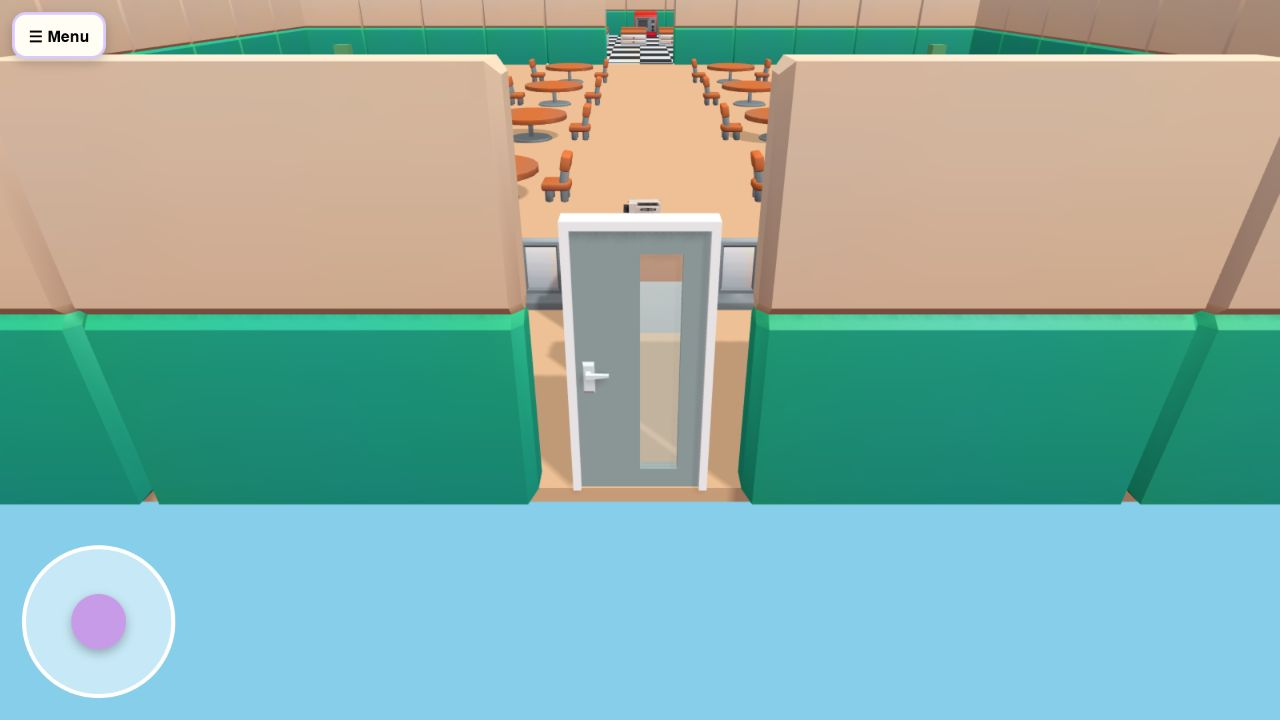
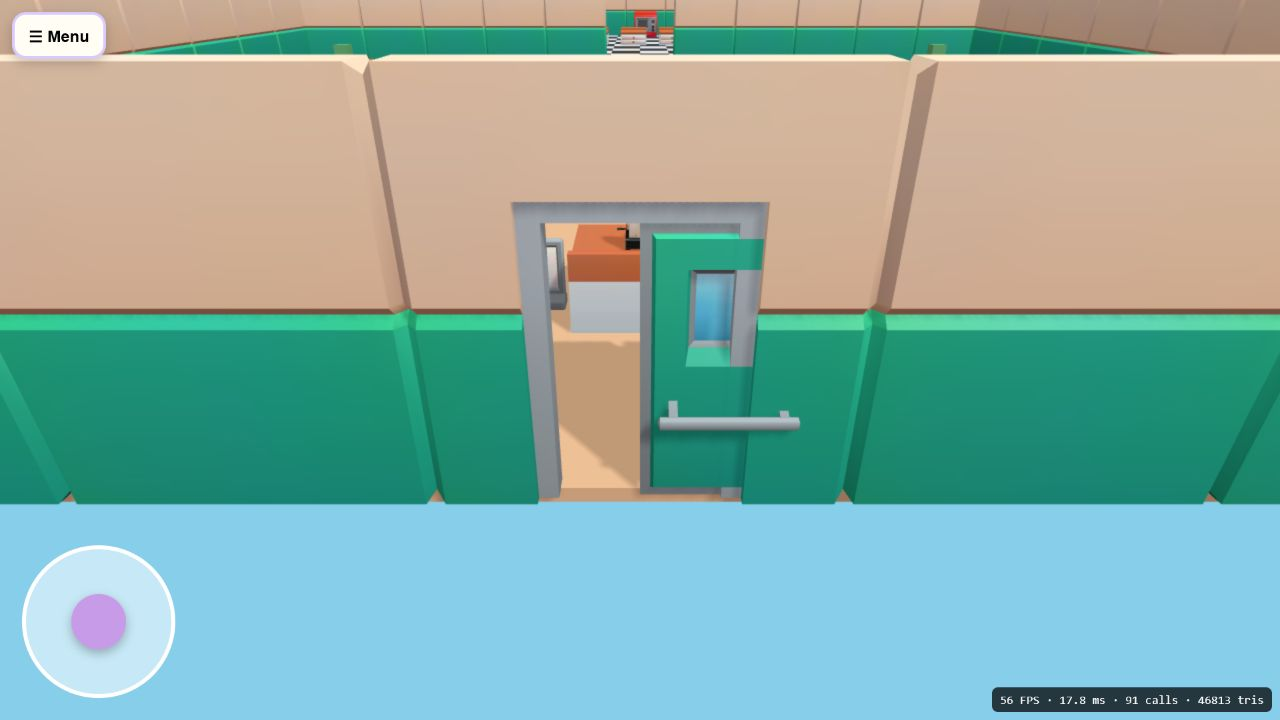
Match restaurant entrance to authored wall kit

diff --git a/restaurant-world.js b/restaurant-world.js
@@ -9,10 +9,10 @@
  const KIT_URL=`assets/models/restaurant/kaykit-restaurant-kit.glb?v=${BUILD_VERSION}`;
  const BACKGROUND_COLOR=0x87ceeb;
  const EXTRA_ASSETS=Object.freeze({
-  cashRegister:Object.freeze({assetId:"restaurant.front.cash-register",url:`assets/models/restaurant-extras/cash-register.glb?v=${BUILD_VERSION}`,position:Object.freeze({x:0,y:1.03,z:15.5}),scale:1.15,yaw:Math.PI}),
-  frontDoor:Object.freeze({assetId:"restaurant.front.door",url:`assets/models/restaurant-extras/front-door.glb?v=${BUILD_VERSION}`,position:Object.freeze({x:0,y:0,z:19.92}),scale:2.75,yaw:Math.PI})
+  cashRegister:Object.freeze({assetId:"restaurant.front.cash-register",url:`assets/models/restaurant-extras/cash-register.glb?v=${BUILD_VERSION}`,position:Object.freeze({x:0,y:1.03,z:15.5}),scale:1.15,yaw:Math.PI})
  });
  const CASH_DESK=Object.freeze({assetId:"restaurant.front.cash-desk",sourceScene:"kitchencounter_straight_A_backsplash",position:Object.freeze({x:0,y:0,z:15.5}),scale:1,yaw:Math.PI,collision:Object.freeze([1,1.03])});
+ const FRONT_ENTRANCE=Object.freeze({assetId:"restaurant.front.entrance",frameAssetId:"restaurant.front.entrance-frame",frameScene:"wall_doorway",doorAssetId:"restaurant.front.door",doorScene:"door_A",position:Object.freeze({x:0,y:0,z:20}),yaw:0,collision:Object.freeze([2,.25])});
  const ROOM_FILES={dining:"restaurant-main-level.txt",kitchen:"restaurant-kitchen-level.txt"};
  const WALKABLE=new Set([".","D","E"]);
  const PLAYER_RADIUS=.28;
@@ -87,6 +87,7 @@
    if(Math.abs(x-transform.x)<half[0]+PLAYER_RADIUS&&Math.abs(z-transform.z)<half[1]+PLAYER_RADIUS)return false;
   }
   if(room.room==="dining"&&Math.abs(x-CASH_DESK.position.x)<CASH_DESK.collision[0]+PLAYER_RADIUS&&Math.abs(z-CASH_DESK.position.z)<CASH_DESK.collision[1]+PLAYER_RADIUS)return false;
+  if(room.room==="dining"&&Math.abs(x-FRONT_ENTRANCE.position.x)<FRONT_ENTRANCE.collision[0]+PLAYER_RADIUS&&Math.abs(z-FRONT_ENTRANCE.position.z)<FRONT_ENTRANCE.collision[1]+PLAYER_RADIUS)return false;
   return true;
  }
  function wallCellCollision(room,col,row,center){
@@ -215,13 +216,23 @@
    const prototype=extras[key]?.scene;
    if(prototype){
     const art=prototype.clone(true);art.name=spec.assetId;art.position.set(spec.position.x,spec.position.y,spec.position.z);art.rotation.y=spec.yaw;art.scale.setScalar(spec.scale);art.userData={assetId:spec.assetId,url:spec.url,placeholder:false};art.traverse(object=>{if(object.isMesh){object.castShadow=object.receiveShadow=true}});front.add(art);loadedAssetIds.push(spec.assetId);
-   }else if(key==="cashRegister"){
-    const register=new THREE.Mesh(new THREE.BoxGeometry(.7,.5,.55),new THREE.MeshStandardMaterial({color:0x303840,roughness:.6}));register.position.set(spec.position.x,spec.position.y+.25,spec.position.z);register.userData={assetId:spec.assetId,placeholder:true};front.add(register);
    }else{
-    const door=new THREE.Mesh(new THREE.BoxGeometry(1.35,2.78,.18),new THREE.MeshStandardMaterial({color:0xdce8ed,roughness:.55}));door.position.set(spec.position.x,1.39,spec.position.z);door.userData={assetId:spec.assetId,placeholder:true};front.add(door);
+    const register=new THREE.Mesh(new THREE.BoxGeometry(.7,.5,.55),new THREE.MeshStandardMaterial({color:0x303840,roughness:.6}));register.position.set(spec.position.x,spec.position.y+.25,spec.position.z);register.userData={assetId:spec.assetId,placeholder:true};front.add(register);
    }
   }
-  front.userData={assetId:"restaurant.front-area",cashDesk:CASH_DESK,props:EXTRA_ASSETS};group.add(front);return front;
+  const entrance=new THREE.Group();entrance.name=FRONT_ENTRANCE.assetId;
+  const framePrototype=sourceScene(kit,FRONT_ENTRANCE.frameScene),doorPrototype=sourceScene(kit,FRONT_ENTRANCE.doorScene);
+  if(framePrototype&&doorPrototype){
+   [[framePrototype,FRONT_ENTRANCE.frameAssetId,FRONT_ENTRANCE.frameScene],[doorPrototype,FRONT_ENTRANCE.doorAssetId,FRONT_ENTRANCE.doorScene]].forEach(([prototype,assetId,source])=>{
+    const art=prototype.clone(true);art.position.set(FRONT_ENTRANCE.position.x,FRONT_ENTRANCE.position.y,FRONT_ENTRANCE.position.z);art.rotation.y=FRONT_ENTRANCE.yaw;art.userData={assetId,sourceScene:source,placeholder:false};art.traverse(object=>{if(object.isMesh){object.castShadow=object.receiveShadow=true}});entrance.add(art);loadedAssetIds.push(assetId);
+   });
+  }else{
+   const frameMaterial=new THREE.MeshStandardMaterial({color:0xf4d6cc,roughness:.9}),doorMaterial=new THREE.MeshStandardMaterial({color:0x35a684,roughness:.75});
+   [[.45,4,.5,-1.78,2],[.45,4,.5,1.78,2],[3.1,.45,.5,0,3.78]].forEach(([w,h,d,x,y])=>{const part=new THREE.Mesh(new THREE.BoxGeometry(w,h,d),frameMaterial);part.position.set(x,y,FRONT_ENTRANCE.position.z);entrance.add(part)});
+   const door=new THREE.Mesh(new THREE.BoxGeometry(1.65,2.8,.22),doorMaterial);door.position.set(.8,1.4,FRONT_ENTRANCE.position.z);door.userData={assetId:FRONT_ENTRANCE.doorAssetId,placeholder:true};entrance.add(door);
+  }
+  entrance.userData={assetId:FRONT_ENTRANCE.assetId,frameScene:FRONT_ENTRANCE.frameScene,doorScene:FRONT_ENTRANCE.doorScene,placeholder:!(framePrototype&&doorPrototype)};front.add(entrance);
+  front.userData={assetId:"restaurant.front-area",cashDesk:CASH_DESK,entrance:FRONT_ENTRANCE,props:EXTRA_ASSETS};group.add(front);return front;
  }
  function buildRuntime(THREE,scene,rooms,kit=null,assetError="",extras={}){
   validateConnection(rooms[0],rooms[1]);
@@ -252,8 +263,8 @@
    batch.userData={assetId:spec.assetId,symbol,placeholder:true,instanceCount:placements.length};group.add(batch);
   }
   addFrontArea(THREE,group,kit,extras,loadedAssetIds);
-  const urls=[KIT_URL,...Object.values(EXTRA_ASSETS).map(spec=>spec.url)],externalReady=Object.keys(EXTRA_ASSETS).every(key=>extras[key]?.scene);
-  group.userData={destination:"restaurant",rooms:rooms.map(room=>({id:room.room,width:room.width,depth:room.depth,layoutFile:ROOM_FILES[room.room]})),assetRegistry:ASSET_REGISTRY,assets:{url:KIT_URL,urls,status:kit&&externalReady?"ready":"fallback",loadedAssetIds,error:assetError},floor:{kitchen:KITCHEN_FLOOR},npcs:0,orders:false,hud:false};
+  const urls=[KIT_URL,...Object.values(EXTRA_ASSETS).map(spec=>spec.url)],externalReady=Object.keys(EXTRA_ASSETS).every(key=>extras[key]?.scene),entranceReady=sourceScene(kit,FRONT_ENTRANCE.frameScene)&&sourceScene(kit,FRONT_ENTRANCE.doorScene);
+  group.userData={destination:"restaurant",rooms:rooms.map(room=>({id:room.room,width:room.width,depth:room.depth,layoutFile:ROOM_FILES[room.room]})),assetRegistry:ASSET_REGISTRY,assets:{url:KIT_URL,urls,status:kit&&externalReady&&entranceReady?"ready":"fallback",loadedAssetIds,error:assetError},floor:{kitchen:KITCHEN_FLOOR},npcs:0,orders:false,hud:false};
   scene.add(group);
   const spawns=Object.fromEntries(rooms.map(room=>[room.room,cellCenter(room,room.spawnCol,room.spawnRow)]));
   const cameraPoses={
@@ -295,5 +306,5 @@
   return {geometries:geometries.size,materials:materials.size,textures:textures.size};
  }
  function destroy(){if(!runtime)return;const root=runtime.group;disposeRuntimeResources(root);root.parent?.remove(root);runtime=null}
- return {KIT_URL,BACKGROUND_COLOR,EXTRA_ASSETS,CASH_DESK,ROOM_FILES,ASSET_REGISTRY,WALKABLE,PLAYER_RADIUS,WALL,KITCHEN_FLOOR,DEBUG_VIEWS,parseLevel,cellCenter,roomAt,symbolAtWorld,canWalk,wallCellCollision,doorwayCells,validateConnection,sourceScene,firstMesh,buildKitchenFloor,wallBoundaryLines,wallSegments,buildWalls,assetTransform,addFrontArea,buildRuntime,loadRooms,loadKit,loadExtraAssets,disposeRuntimeResources,ensure,destroy,get current(){return runtime}};
+ return {KIT_URL,BACKGROUND_COLOR,EXTRA_ASSETS,CASH_DESK,FRONT_ENTRANCE,ROOM_FILES,ASSET_REGISTRY,WALKABLE,PLAYER_RADIUS,WALL,KITCHEN_FLOOR,DEBUG_VIEWS,parseLevel,cellCenter,roomAt,symbolAtWorld,canWalk,wallCellCollision,doorwayCells,validateConnection,sourceScene,firstMesh,buildKitchenFloor,wallBoundaryLines,wallSegments,buildWalls,assetTransform,addFrontArea,buildRuntime,loadRooms,loadKit,loadExtraAssets,disposeRuntimeResources,ensure,destroy,get current(){return runtime}};
 });

diff --git a/tests/restaurant-world.test.js b/tests/restaurant-world.test.js
@@ -23,6 +23,7 @@ const jsonLength=kitBuffer.readUInt32LE(12),gltf=JSON.parse(kitBuffer.subarray(2
 const kitScenes=new Set(gltf.scenes.flatMap(scene=>scene.nodes.map(node=>gltf.nodes[node]?.name)));
 assert(kitScenes.has(Restaurant.WALL.sourceScene),"KayKit derivative must include the authored restaurant wall scene");
 assert(kitScenes.has(Restaurant.KITCHEN_FLOOR.sourceScene),"curated Restaurant Bits GLB must include the authored kitchen floor");
+assert(kitScenes.has(Restaurant.FRONT_ENTRANCE.frameScene)&&kitScenes.has(Restaurant.FRONT_ENTRANCE.doorScene),"front entrance must reuse the matching Restaurant Bits doorway and door scenes");
 const html=read("index.html"),houseSystem=read("house-system.js"),styles=read("styles.css");
 assert(/id="goBakery"[^>]*>[^<]*<span>Restaurant<\/span>/.test(html),"Realm destination must display Restaurant");
 assert(!/id="goBakery">[^<]*<span>Bakery<\/span>/.test(html),"Bakery must not remain a visible Realm destination");
@@ -38,8 +39,9 @@ assert.strictEqual(dining.cell,1);assert.strictEqual(kitchen.cell,1);
 assert(Restaurant.validateConnection(dining,kitchen),"connected doorway must align");
 assert.strictEqual(Restaurant.doorwayCells(dining).length,4);
 assert.strictEqual(Restaurant.doorwayCells(kitchen).length,4);
-assert.strictEqual(dining.map[dining.map.length-1].split("E").length-1,2,"front entrance must reserve a two-unit opening in the south wall");
-assert(Restaurant.canWalk(rooms,0,19.7),"front entrance opening must be walkable from the dining side");
+assert.strictEqual(dining.map[dining.map.length-1].split("E").length-1,4,"front entrance must reserve the full four-unit authored doorway module");
+assert(Restaurant.canWalk(rooms,0,19),"player must be able to approach the front entrance from the dining side");
+assert.strictEqual(Restaurant.canWalk(rooms,0,19.7),false,"closed front entrance must stop the player before the visible door");
 
 const diningSpawn=Restaurant.cellCenter(dining,dining.spawnCol,dining.spawnRow);
 assert(Restaurant.canWalk(rooms,diningSpawn.x,diningSpawn.z),"dining spawn must be walkable");
@@ -135,7 +137,7 @@ assert.strictEqual(kitchenFloor.children.reduce((sum,batch)=>sum+batch.count,0),
 for(const name of ["kitchen-overview","kitchen-fixtures","kitchen-doorway","kitchen-north-wall","kitchen-west-wall","kitchen-east-wall","restaurant-chair-table","restaurant-cash-register","restaurant-front-door","restaurant-sky-overview"]){
  assert(Restaurant.DEBUG_VIEWS[name],`screenshot QA needs stable ${name} view`);
 }
-for(const view of Object.values(Restaurant.DEBUG_VIEWS))assert(Restaurant.canWalk(rooms,view.position.x,view.position.z),"kitchen screenshot pose must remain walkable");
+for(const view of Object.values(Restaurant.DEBUG_VIEWS).filter(view=>!view.hidePlayer))assert(Restaurant.canWalk(rooms,view.position.x,view.position.z),"player-visible restaurant screenshot poses must remain walkable");
 const floorRoot=Object.assign(new Node3D(),{name:Restaurant.KITCHEN_FLOOR.sourceScene,isMesh:true,geometry:{},material:{}}),floorScene=new Group();floorScene.add(floorRoot);
 const authoredFloor=Restaurant.buildKitchenFloor({Group,BoxGeometry,MeshStandardMaterial,InstancedMesh},kitchen,{scenes:[floorScene]},new Matrix4());
 assert.strictEqual(authoredFloor.userData.sourceReady,true,"available Restaurant Bits floor must replace the procedural fallback");

diff --git a/assets/models/restaurant-extras/SOURCE.md b/assets/models/restaurant-extras/SOURCE.md
@@ -1,6 +1,6 @@
 # Restaurant extra asset provenance
 
-Both source assets are released under CC0. No source-site imagery, logos, or promotional material is included here.
+The source asset is released under CC0. No source-site imagery, logos, or promotional material is included here.
 
 ## Cash register
 
@@ -11,14 +11,3 @@ Both source assets are released under CC0. No source-site imagery, logos, or pro
 - Local processing: centered with the pivot below the model, converted to GLB, quantized, and reduced to 256x256 WebP textures with glTF Transform 4.4.1
 - Runtime size: 323,928 bytes; 9,837 triangles; five 256x256 textures
[1 lines of base64/hex data omitted]
-
-## Front door
-
-- Asset: **doorwayFront** from Kenney's Furniture Kit
-- Source: https://kenney.nl/assets/furniture-kit
-- License: CC0
-- Source format: `Models/GLTF format/doorwayFront.glb` from the official Kenney download
-- Local processing: centered with the pivot below the model and quantized with glTF Transform 4.4.1
-- Runtime size: 7,920 bytes; 150 triangles; no textures
[1 lines of base64/hex data omitted]
-

diff --git a/test-results/restaurant-qa/README.md b/test-results/restaurant-qa/README.md
@@ -7,6 +7,6 @@ Captured at 1280x720 from the deterministic `restaurantView` camera poses.
 | `restaurant-sky-overview.png` | Blue sky is visible around the open-top restaurant shell; dining layout remains readable. |
 | `restaurant-chair-table.png` | Chair backrests are on the outside edge and all seats face their adjacent tables. |
 | `restaurant-cash-register.png` | Cash register loads as authored art, sits centered on the cashier desk, and its controls face the dining/main area. |
-| `restaurant-front-door.png` | Door fills the two-unit south-wall opening, is upright, faces outward, and does not overlap the authored wall modules. |
+| `restaurant-front-door.png` | Matching Restaurant Bits doorway and door art fill the four-unit south-wall opening, stay aligned to the wall modules, and block player clipping. |
 
-Runtime asset status was `ready` during capture. No primitive fallback was active for the restaurant kit, cash register, or front door.
+Runtime asset status was `ready` during capture. No primitive fallback was active for the restaurant kit, cash register, or entrance.